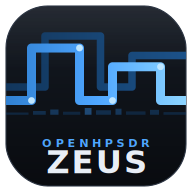
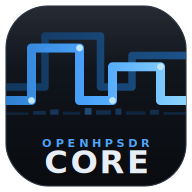
brand: the mark keeps its pulses, the name becomes CORE
The remote client still said Zeus in its top-left: the .197/.198 rebrand
touched the splash and About, not the shell chrome. This finishes the
visible cutover without renaming any file or asset path — the
self-updater's path assumptions are untouched.

- branding/zeus-logo.svg: the twin square-wave mark, sample dots,
  spectrum floor and slate tile are unchanged; the wordmark ZEUS becomes
  CORE, the OPENHPSDR eyebrow stays (option B).
- Icons regenerated from that SVG: zeus-icon-192 / 512 (any) and the
  512 maskable (tile inset on slate, as before), plus branding/zeus-logo.png.
- Mobile top bar: ANAN over CORE beside the mark.
- Desktop header brand text: ANAN Core.
- PWA manifest: name 'ANAN Core', short_name 'Core', description
  'ANAN Core — Protocol-2 SDR for the ANAN'.
- <title>: ANAN Core.

Filenames stay zeus-* on purpose; the About panel is already ANAN Core in
the private .198 commit and is not touched here.

Changed region(s): [[0.2188, 0.7812, 0.7812, 0.9062]]

diff --git a/zeus-web/src/mobile/MobileApp.tsx b/zeus-web/src/mobile/MobileApp.tsx
@@ -238,8 +238,8 @@ export function MobileApp() {
             <img className="m-brand-logo" src="/branding/zeus-logo.svg" alt="" aria-hidden="true" />
           </span>
           <span className="m-brand-text">
-            <span className="m-brand-pre">OpenHpsdr</span>
-            <span className="m-brand-name">Zeus</span>
+            <span className="m-brand-pre">ANAN</span>
+            <span className="m-brand-name">CORE</span>
           </span>
         </div>
         <nav className="m-tabs" role="tablist" aria-label="Mobile sections">

diff --git a/zeus-web/vite.config.ts b/zeus-web/vite.config.ts
@@ -104,9 +104,9 @@ export default defineConfig({
       includeAssets: ['mic-uplink-worklet.js'],
       injectRegister: null, // We handle registration manually
       manifest: {
-        name: 'Zeus',
-        short_name: 'Zeus',
-        description: 'Zeus WebSDR control surface',
+        name: 'ANAN Core',
+        short_name: 'Core',
+        description: 'ANAN Core — Protocol-2 SDR for the ANAN',
         theme_color: '#0a1220',
         background_color: '#0a1220',
         display: 'standalone',

diff --git a/zeus-web/index.html b/zeus-web/index.html
@@ -7,7 +7,7 @@
     <link rel="icon" type="image/png" sizes="192x192" href="/zeus-icon-192.png" />
     <link rel="icon" type="image/png" sizes="512x512" href="/zeus-icon-512.png" />
     <link rel="apple-touch-icon" href="/zeus-icon-192.png" />
-    <title>OpenHpsdr Zeus</title>
+    <title>ANAN Core</title>
     <link rel="preconnect" href="https://fonts.googleapis.com" />
     <link rel="preconnect" href="https://fonts.gstatic.com" crossorigin />
     <link

diff --git a/zeus-web/src/App.tsx b/zeus-web/src/App.tsx
@@ -1482,7 +1482,7 @@ export default function App() {
             </svg>
           </div>
           <div className="brand-text">
-            <div className="brand-name mono">OpenHpsdr Zeus</div>
+            <div className="brand-name mono">ANAN Core</div>
             <div className="brand-sub label-xs hide-mobile">{brandSub}</div>
           </div>
         </div>
